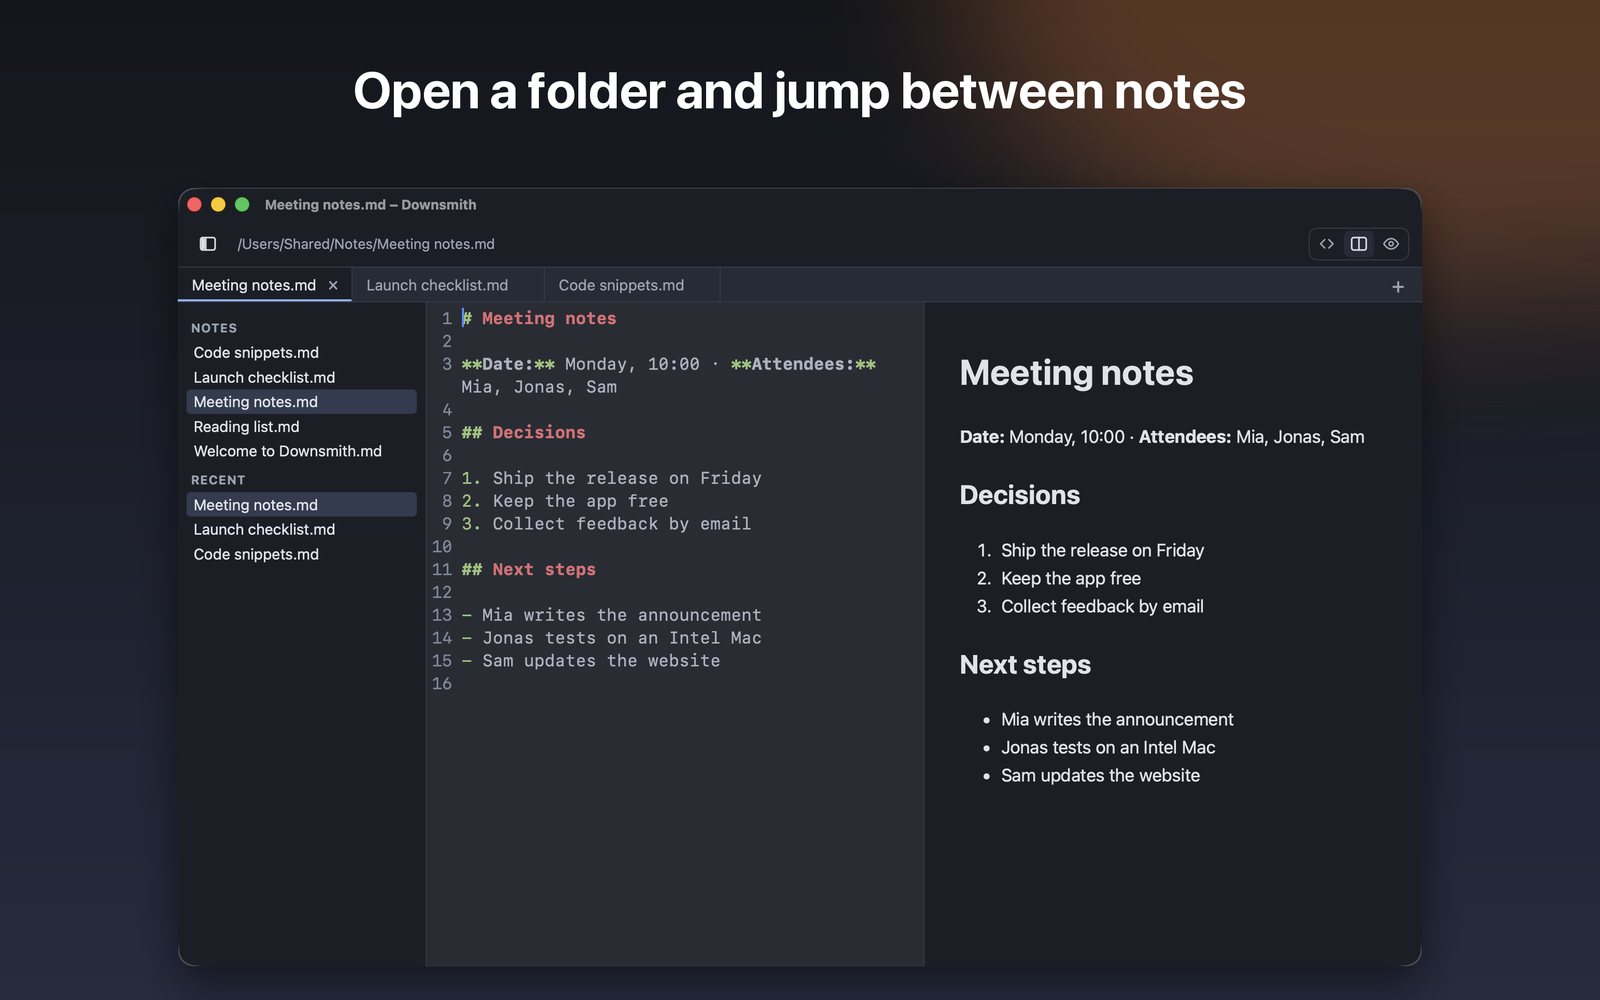
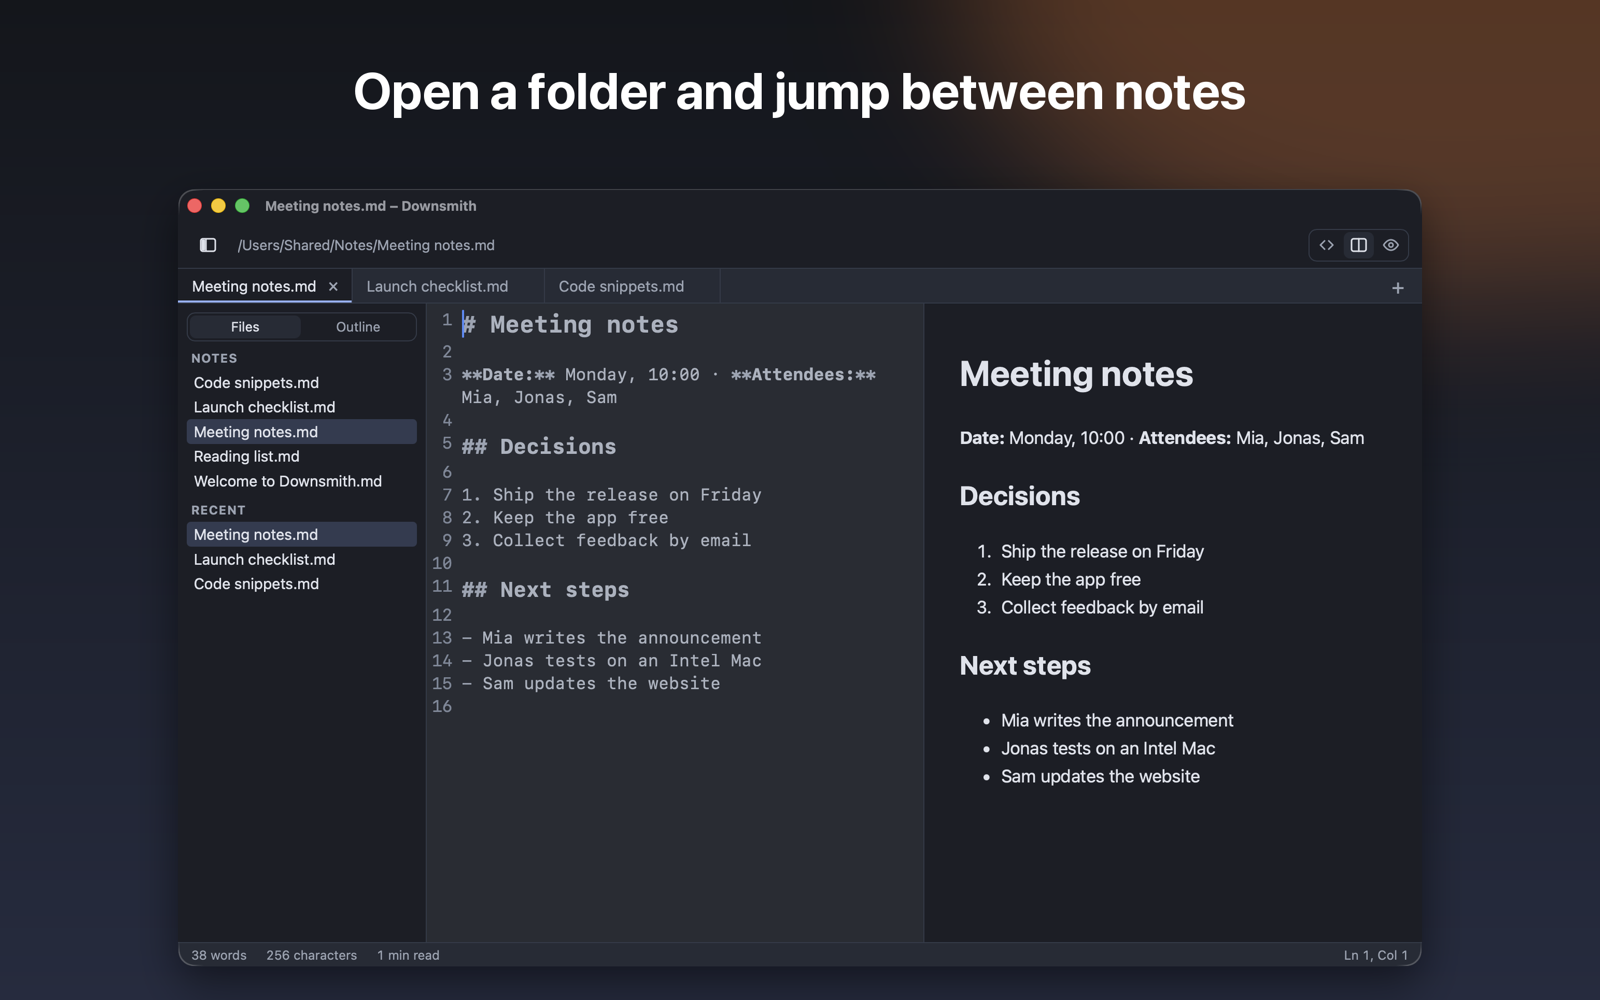
docs: update README

diff --git a/README.md b/README.md
@@ -32,7 +32,10 @@
 
 ## Why Downsmith
 
-- **Live preview.** Source on the left, rendered page on the right. Tables, task lists and code blocks with syntax highlighting.
+- **Live preview.** Source on the left, rendered page on the right, scrolling together. Tables, task lists you can tick off, footnotes, note boxes and code blocks with syntax highlighting.
+- **Write.** Bold, italic, links and headings from the Format menu. Focus mode fades everything but the current paragraph, typewriter scrolling keeps your line in the middle, and a status bar counts words and reading time.
+- **Find and jump.** Search and replace, and an outline of your headings in the sidebar.
+- **Always up to date.** When another program changes an open file, Downsmith shows the new text (and asks first if you have unsaved edits). Drop files or a folder on the window to open them.
 - **Tabs.** Open several files at once, each with its own undo history. Your tabs come back at the next start, and closing with unsaved changes asks Save, Don't Save or Cancel.
 - **Your view.** Show only the source, only the preview or both side by side. Hide the sidebar and drag the dividers to resize the columns. Downsmith remembers your layout.
 - **Folders and recent files.** Open a folder, browse its Markdown files in a sidebar and jump back to what you edited last.
@@ -66,7 +69,7 @@ Grab the file for your system from the **[latest release](../../releases/latest)
 1. Download the `.dmg`, open it and drag **Downsmith** onto *Applications*.
 2. Start it. The app is signed and notarized by Apple, so there is no Gatekeeper warning.
 
-A Mac App Store version is on its way.
+Downsmith is also in the [Mac App Store](https://apps.apple.com/app/id6818861246).
 
 ### Linux (64-bit)
 | Package | Install |
@@ -92,6 +95,14 @@ The packages need WebKitGTK 4.1 (`libwebkit2gtk-4.1`). The Linux builds are new 
 | Show or hide the sidebar | `⇧⌘B` | `Ctrl+Shift+B` |
 | Source only / both / preview only | `⌥⌘1` / `⌥⌘2` / `⌥⌘3` | `Ctrl+Alt+1` / `2` / `3` |
 | Larger / smaller / actual text size | `⌘+` / `⌘-` / `⌘0` | `Ctrl+` / `Ctrl-` / `Ctrl+0` |
+| Find / next / previous | `⌘F` / `⌘G` / `⇧⌘G` | `Ctrl+F` / `Ctrl+G` / `Ctrl+Shift+G` |
+| Find and replace | `⌥⌘F` | `Ctrl+Alt+F` |
+| Bold / italic / link | `⌘B` / `⌘I` / `⌘K` | `Ctrl+B` / `Ctrl+I` / `Ctrl+K` |
+| Inline code / strikethrough | `⌘E` / `⇧⌘X` | `Ctrl+E` / `Ctrl+Shift+X` |
+| Heading 1 / 2 / 3 | `⌘1` / `⌘2` / `⌘3` | `Ctrl+1` / `2` / `3` |
+| Focus mode / typewriter scrolling | `⇧⌘F` / `⌥⌘T` | `Ctrl+Shift+F` / `Ctrl+Alt+T` |
+| Status bar | `⌘/` | `Ctrl+/` |
+| Show outline / show files | `⌥⌘O` / `⌥⌘L` | `Ctrl+Alt+O` / `Ctrl+Alt+L` |
 
 ## Support
 
